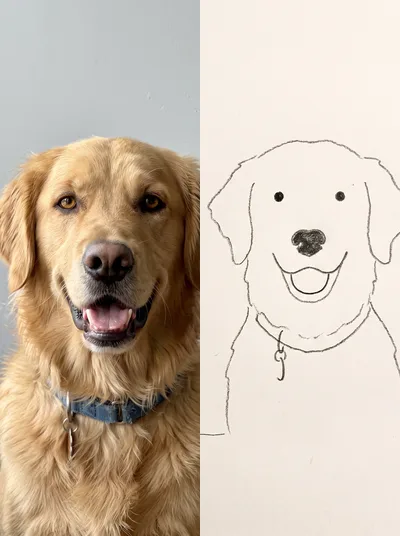
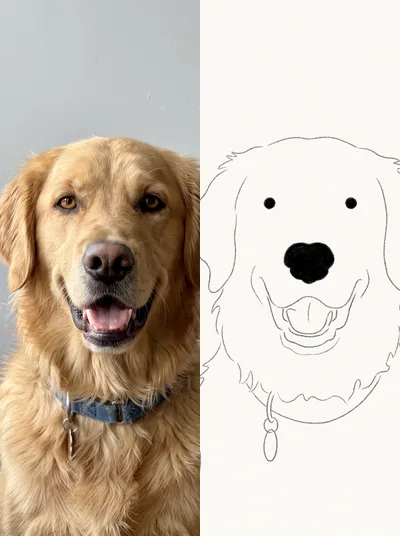
feat(magicbooth): 788 마커 일러스트 · 789 스트릿 캐리커처 추가 + 787 구도 수정
■ 788 마커 일러스트 (신규)
  오너 요청 "thick marker illustration".
  1차는 선이 안 굵고 레이스까지 세밀하게 다 그렸다. "굵어서 디테일이 물리적으로
  불가능하다"는 논리를 넣어 단순화는 잡았지만, 초상 사진에서는 아무리 밀어도
  아웃라인이 굵어지지 않고 '잘 그린 마커 초상'으로 수렴했다.
  → 오너 지시("좀 더 rough하게 fashion illustration 느낌 / 쓱싹쓱싹")로 방향을
    틀어 해결. 빠른 사선 스윕이 윤곽 밖으로 튀고 어떤 곳은 못 미치며 흰 종이가
    줄줄이 비치고, 아웃라인은 끊기고 안 닫힌다. 색칠공부/벡터로 보이지 않는다.
  404 2D 벡터와는 물성으로 갈린다 — 겹친 곳이 진해지고 종이에 번지는 실제 마커.

■ 789 스트릿 캐리커처 (신규)
  길거리 캐리커처 화가가 5분에 그려주는 그림. 브러시펜 윤곽 + 마커·색연필
  덧칠, 머리 크게 몸 작게, 안경·헤어 같은 특징을 과장.
  ⚠ 과장은 하되 반드시 호감형으로 — 못생기게/조롱조로 그리지 않도록
    "no warts, no sneers, no unflattering wrinkles" 를 명시했다. 782 에서
    사람을 망가뜨린 전례가 있어서 같은 실수를 반복하지 않는다.

■ 787 여백 드로잉 — 여백이 과했다
  오너가 클로즈업 뷰티 사진으로 돌린 결과, 얼굴이 화면을 채우는 원본과 달리
  손톱만한 그림이 흰 벌판에 떠 있었다. 원인은 내가 넣은 "가운데 1/3만 차지,
  2/3는 비워라" 조항.
  → "원본 구도·크기 유지. 얼굴이 화면을 채우면 그림도 채운다. 피사체를 줄여서
    여백을 만들지 말고, 배경을 지워서 생긴 여백만 남긴다." 로 교체.
  덕분에 서버 래퍼의 프레이밍 규칙과도 다시 일치한다(예외 조항은 유지).

썸네일 787 재생성(구도 수정 반영) + 788·789 신규.
검증: 실제 서버 문자열(래퍼+컨셉) 그대로 사람·강아지·안경남 소스로 생성 확인.
총 626종 / 폴백 348종, id 중복 0, 썸네일 누락 0, 매직 부스 17종.
sw v69 → v70.

diff --git a/public/sw.js b/public/sw.js
@@ -10,7 +10,7 @@
 // 새 버전 배포 시: 아래 VERSION 만 올리면 됨.
 // ============================================================
 
-const VERSION = "v69";
+const VERSION = "v70";
 const STATIC_CACHE = `rimikimi-static-${VERSION}`;
 const THUMB_CACHE = `rimikimi-thumbs-${VERSION}`;
 const DATA_CACHE = `rimikimi-data-${VERSION}`;
